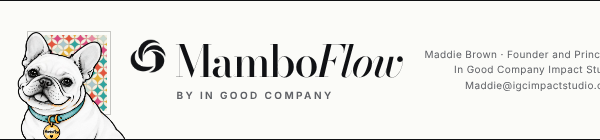
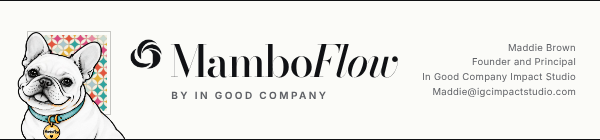
Fit the email signature contact lines
Claude-Session: https://claude.ai/code/session_01PSNkhtJjPwNzdydLD5UDQg

Changed region(s): [[0.21, 0.2857, 1.0, 0.7143], [0.27, 0.6286, 0.57, 0.7143]]

diff --git a/branding/mamboflow/source/assets.html b/branding/mamboflow/source/assets.html
@@ -114,7 +114,7 @@ img.m{position:absolute;display:block}
 #sig .by{font-size:10px;color:var(--muted);margin-top:6px}
 #sig .endorse{position:static;gap:8px;margin-top:6px}
 #sig .endorse img{height:22px}
-#sig .meta{margin-left:auto;text-align:right;font-size:10px;line-height:1.55;letter-spacing:.04em;color:var(--muted);white-space:nowrap}
+#sig .meta{margin-left:auto;text-align:right;font-size:9.5px;line-height:1.55;letter-spacing:.03em;color:var(--muted);max-width:170px}
 /* pattern tiles 600x600 */
 .tile{width:600px;height:600px}
 </style></head><body>
@@ -182,7 +182,7 @@ img.m{position:absolute;display:block}
 </div>
 
 <!-- Email signature strip -->
-<div class="frame" id="sig"><div class="mini"><div class="panel"><img src="../patterns/argyle-atomic-fine.svg"></div><img class="m" src="../mascot/mambo-pop-teal.png" alt=""></div><div class="lk" style="--F:36px"><img src="../igc/igc-mark-black.png" alt=""><div><h3 class="wm">Mambo<em>Flow</em></h3><p class="by">By In Good Company</p></div></div><div class="meta">Maddie Brown · Founder and Principal<br>In Good Company Impact Studio<br>Maddie@igcimpactstudio.com</div></div>
+<div class="frame" id="sig"><div class="mini"><div class="panel"><img src="../patterns/argyle-atomic-fine.svg"></div><img class="m" src="../mascot/mambo-pop-teal.png" alt=""></div><div class="lk" style="--F:32px"><img src="../igc/igc-mark-black.png" alt=""><div><h3 class="wm">Mambo<em>Flow</em></h3><p class="by">By In Good Company</p></div></div><div class="meta">Maddie Brown<br>Founder and Principal<br>In Good Company Impact Studio<br>Maddie@igcimpactstudio.com</div></div>
 
 <!-- Pattern tiles -->
 <div class="frame tile" id="tile-signal"><svg class="pat" viewBox="0 0 600 600" fill="none" stroke="#101114" stroke-opacity=".38"><circle cx="300" cy="300" r="60"/><circle cx="300" cy="300" r="120"/><circle cx="300" cy="300" r="180"/><circle cx="300" cy="300" r="240"/><circle cx="300" cy="300" r="300"/><circle cx="300" cy="300" r="360"/></svg></div>
